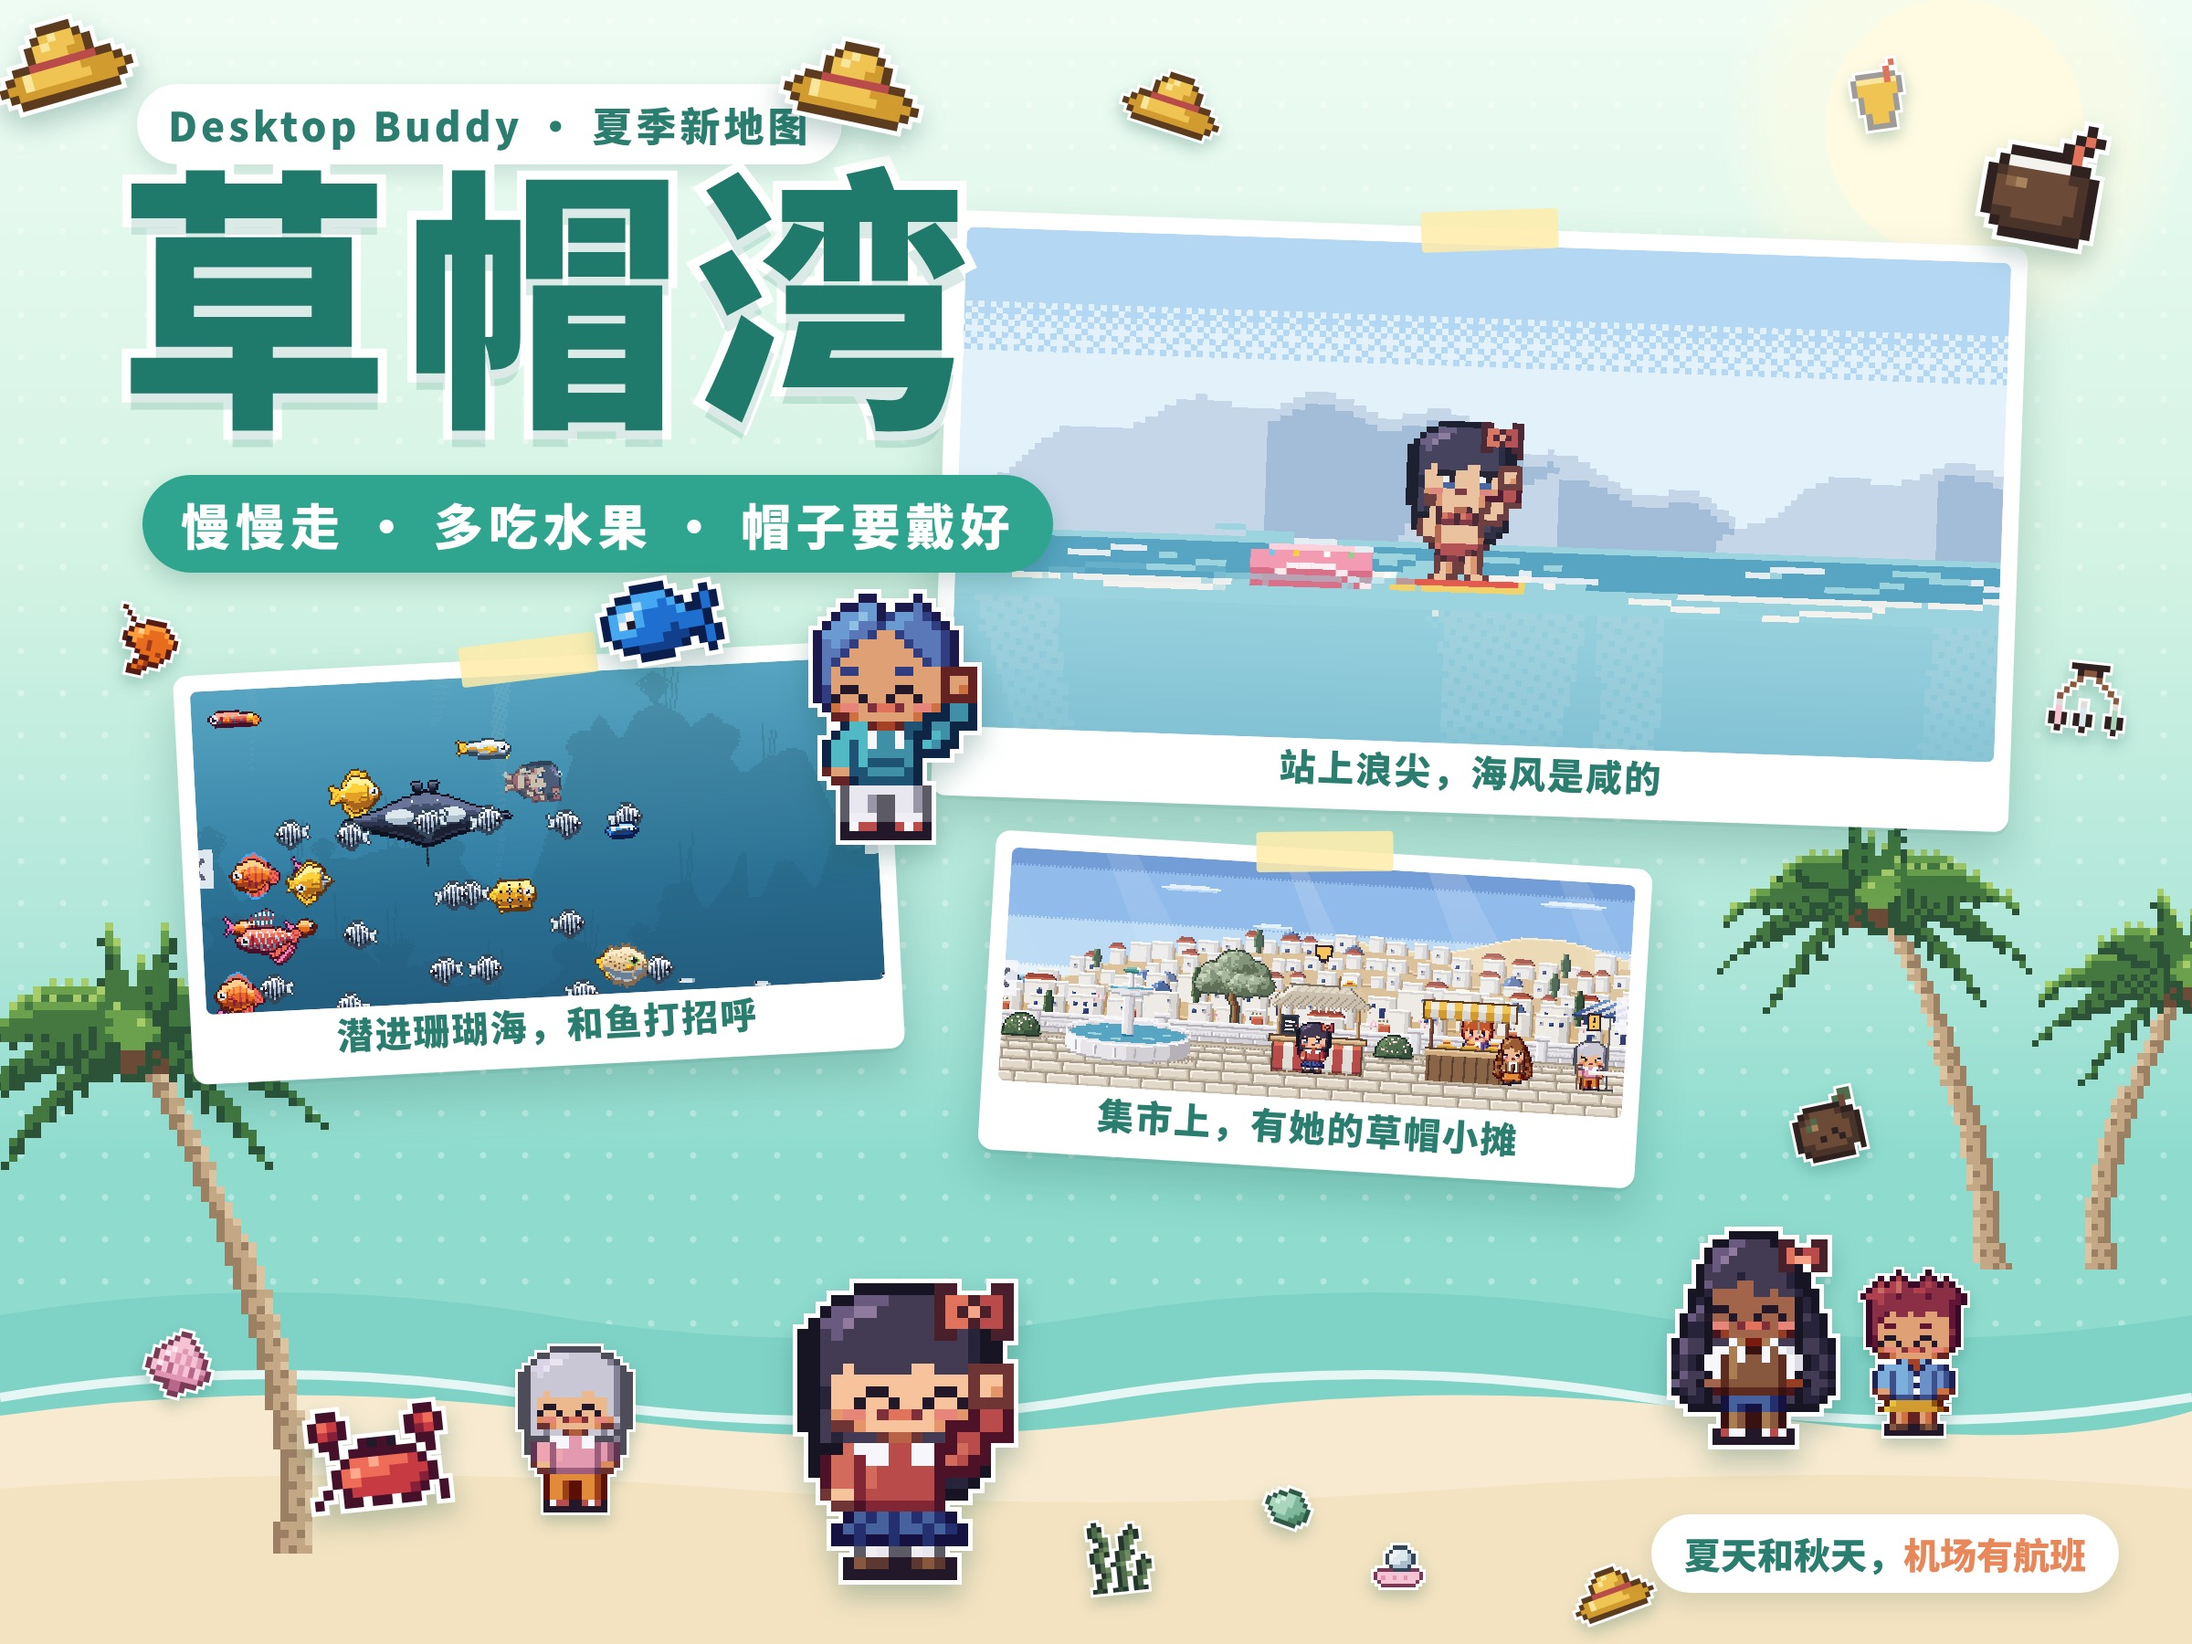
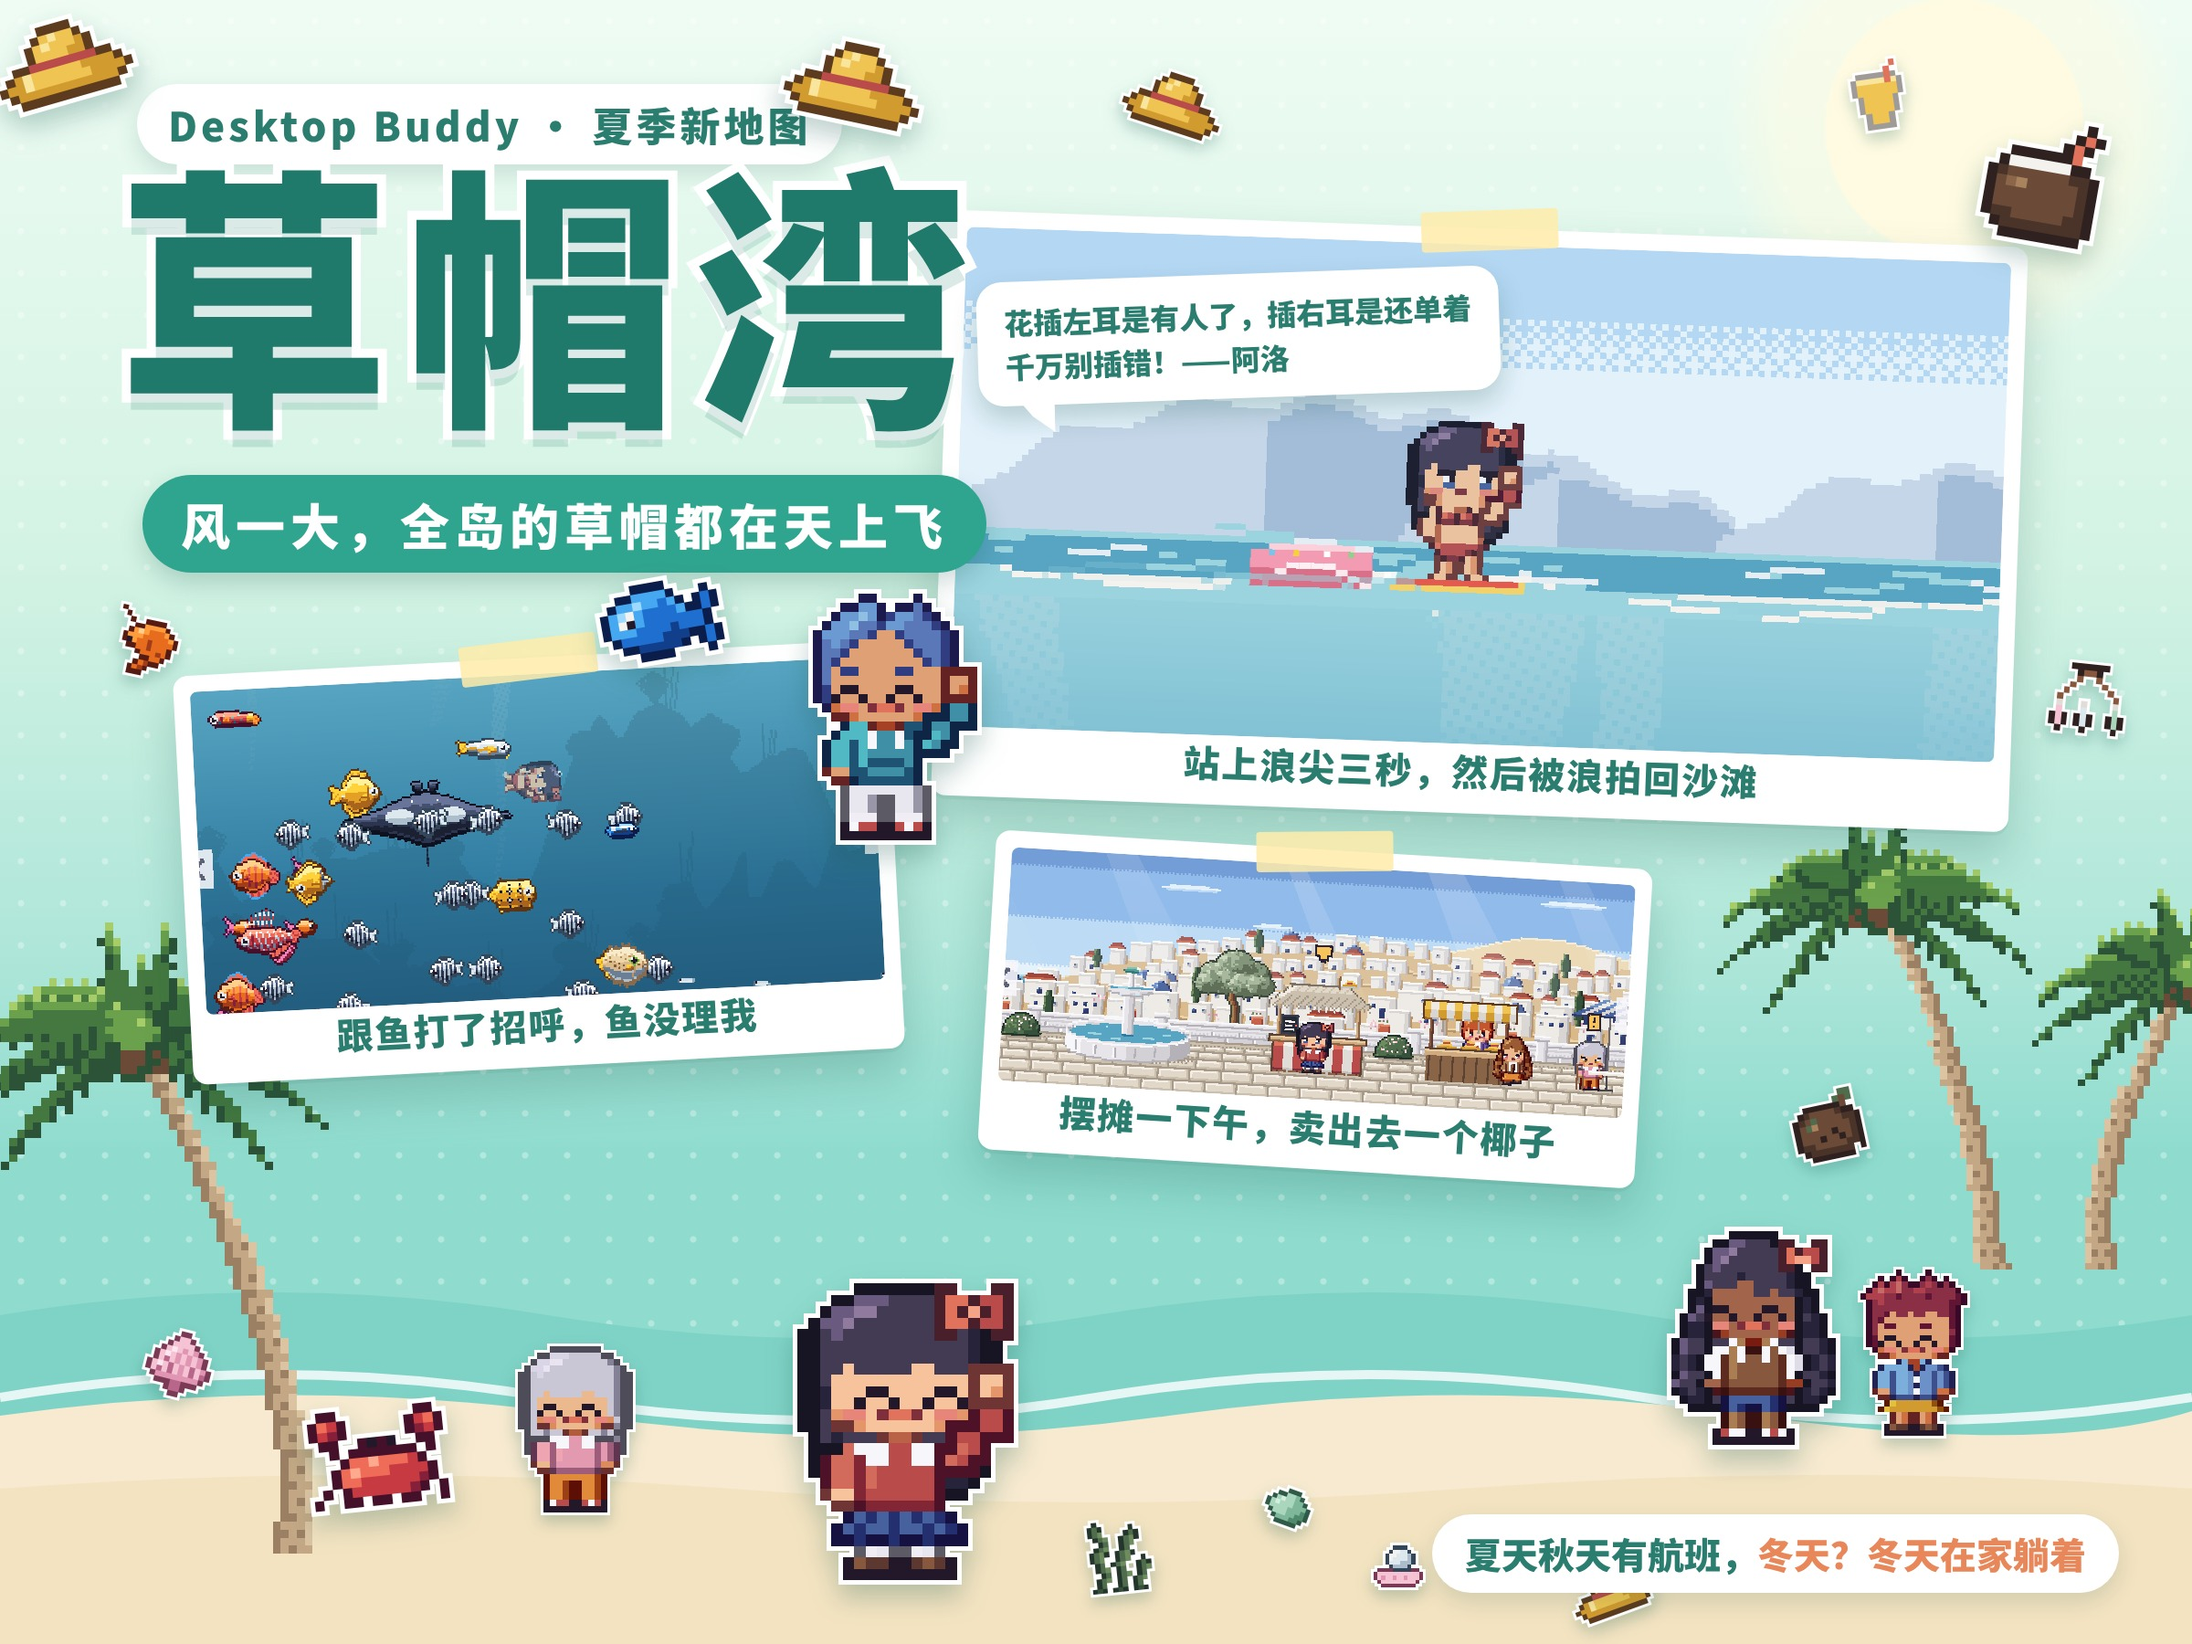
草帽湾：潜水画面不再扩展，镜头跟着往下；海报文案改无厘头
Claude-Session: https://claude.ai/code/session_01HP37xpvuwwsvGpZEAk6w5s

diff --git a/marketing/summer/poster.html b/marketing/summer/poster.html
@@ -18,6 +18,8 @@ body{position:relative;font-family:"Noto Sans CJK SC","Noto Sans CJK TC",sans-se
 .sub{position:absolute;left:156px;top:520px;font-weight:800;font-size:54px;color:#fff;background:#2fa48f;padding:14px 42px;border-radius:999px;letter-spacing:6px;box-shadow:0 12px 26px rgba(20,80,70,.2)}
 .foot{position:absolute;right:80px;bottom:56px;padding:14px 36px;background:#fff;border-radius:999px;font-weight:800;font-size:40px;color:#2a7d6f;box-shadow:0 10px 24px rgba(20,80,70,.15)}
 .foot b{color:#e8875a}
+.bubble{position:absolute;left:1070px;top:300px;padding:20px 30px;background:#fff;border-radius:28px;font-weight:800;font-size:32px;line-height:1.5;color:#2a7d6f;box-shadow:0 14px 28px rgba(20,80,70,.22);transform:rotate(-2deg);z-index:2;white-space:nowrap}
+.bubble:after{content:'';position:absolute;left:40px;bottom:-30px;border:18px solid transparent;border-top:22px solid #fff;border-right:24px solid #fff}
 </style></head><body>
 <div class="dots"></div><div class="sun"></div>
 <div class="beach"><svg viewBox="0 0 2400 420" preserveAspectRatio="none">
@@ -32,16 +34,17 @@ body{position:relative;font-family:"Noto Sans CJK SC","Noto Sans CJK TC",sans-se
 <img class="px" src="palm1.png" style="left:1880px;top:880px;width:690px">
 
 <!-- photos -->
-<div class="photo" style="left:1030px;top:250px;width:1180px;transform:rotate(2deg)"><div class="tape"></div><img src="surf.png"><p>站上浪尖，海风是咸的</p></div>
-<div class="photo" style="left:200px;top:720px;width:780px;transform:rotate(-3deg)"><div class="tape"></div><img src="sea.png"><p>潜进珊瑚海，和鱼打招呼</p></div>
-<div class="photo" style="left:1080px;top:930px;width:720px;transform:rotate(3.5deg)"><div class="tape"></div><img src="market.png"><p>集市上，有她的草帽小摊</p></div>
+<div class="photo" style="left:1030px;top:250px;width:1180px;transform:rotate(2deg)"><div class="tape"></div><img src="surf.png"><p>站上浪尖三秒，然后被浪拍回沙滩</p></div>
+<div class="photo" style="left:200px;top:720px;width:780px;transform:rotate(-3deg)"><div class="tape"></div><img src="sea.png"><p>跟鱼打了招呼，鱼没理我</p></div>
+<div class="photo" style="left:1080px;top:930px;width:720px;transform:rotate(3.5deg)"><div class="tape"></div><img src="market.png"><p>摆摊一下午，卖出去一个椰子</p></div>
 
 <div class="label">Desktop Buddy · 夏季新地图</div>
 <div class="title">草帽湾</div>
-<div class="sub">慢慢走 · 多吃水果 · 帽子要戴好</div>
+<div class="sub">风一大，全岛的草帽都在天上飞</div>
 
 <!-- island people -->
 <img class="st" src="s_alo.png" style="left:870px;top:640px;width:200px">
+<div class="bubble">花插左耳是有人了，插右耳是还单着<br>千万别插错！——阿洛</div>
 <img class="st" src="s_hero.png" style="left:860px;top:1380px;width:250px">
 <img class="st" src="s_lei.png" style="left:1830px;top:1330px;width:180px">
 <img class="st sm" src="s_kai.png" style="left:2030px;top:1390px;width:130px">
@@ -63,5 +66,5 @@ body{position:relative;font-family:"Noto Sans CJK SC","Noto Sans CJK TC",sans-se
 <img class="st sm" src="shell_chime.png" style="left:2230px;top:720px;width:110px;transform:rotate(6deg)">
 <img class="st sm" src="seaweed.png" style="left:1170px;top:1660px;width:90px;transform:rotate(-6deg)">
 
-<div class="foot">夏天和秋天，<b>机场有航班</b></div>
+<div class="foot">夏天秋天有航班，<b>冬天？冬天在家躺着</b></div>
 </body></html>

diff --git a/prototype/map-test/adapter.js b/prototype/map-test/adapter.js
@@ -45,7 +45,7 @@ const seasonalTest=(function(){
  ACTS.season_explore={label:'在季节地图探索',spot:null,dur:Infinity,log:null};OUT_ACTS.add('season_explore');EFFECT.season_explore={fun:.08};
  const oldHeight=sceneHouseHeight;sceneHouseHeight=()=>active()?(state.activeHeight||ctl()?.canvas.height||H):oldHeight();
  // web page: keep the room the sea view grows into free above the house, so diving opens upward (the app moves its window)
- function sceneRoom(h){if(TAURI)return;const d=document.querySelector('.desk');if(!active()||sim.place!=='summer_test'||!h){d.style.removeProperty('--scene-room');return;}d.style.setProperty('--scene-room',(Math.max(0,236-h)*(view.getBoundingClientRect().height/h)).toFixed(1)+'px');}
+ function sceneRoom(h){if(TAURI)return;const d=document.querySelector('.desk');if(true){d.style.removeProperty('--scene-room');return;}   /* the sea view no longer grows (owner 2026-11-06) */d.style.setProperty('--scene-room',(Math.max(0,236-h)*(view.getBoundingClientRect().height/h)).toFixed(1)+'px');}
  function sync(){
   const c=ctl();if(!c)return;const s=c.state;sim.route=[[s.x,s.y]];sim.s=sim.target=0;sim.crossing=[];sim.facing=s.facing;
   if(sim.mode!=='down'&&!sim.windup){sim.mode='act';sim.act='season_explore';sim.actEnd=Infinity;}

diff --git a/prototype/summer/viewer.js b/prototype/summer/viewer.js
@@ -75,7 +75,7 @@ function move(dt){state.walk=false;if(state.paused||!state.loaded)return;if(stat
 function follow(value,velocity,target,omega,dt){const delta=value-target,e=Math.exp(-omega*dt),temp=(velocity+omega*delta)*dt;return [target+(delta+temp)*e,(velocity-omega*temp)*e];}
 function camera(dt){
  if(state.market){if(canvas.height!==LAND_H){canvas.height=LAND_H;ctx.imageSmoothingEnabled=false;}state.viewH=LAND_H;const lead=state.walk?state.facing*14:0;[state.camX,state.camVX]=follow(state.camX,state.camVX,clamp(state.x-VW/2+lead,0,(market?.w||684)-VW),7,dt);state.camX=clamp(state.camX,0,(market?.w||684)-VW);state.camY=0;state.diveBlend=0;return;}
- const sea=!state.inside&&((inSea()&&gr(state.x)>WL+8)||under()),wantH=sea?SEA_H:LAND_H;
+ const sea=!state.inside&&((inSea()&&gr(state.x)>WL+8)||under()),wantH=LAND_H;   // owner 2026-11-06: the view keeps its size under water too (a taller one ran off small screens); the camera follows her down
  // Resize once per mode switch, not once per animated height pixel.
  if(canvas.height!==wantH){canvas.height=wantH;ctx.imageSmoothingEnabled=false;}
  state.viewH+=(wantH-state.viewH)*(1-Math.exp(-6*dt));

diff --git a/docs/AGENT_LOG.md b/docs/AGENT_LOG.md
@@ -6,6 +6,11 @@ owner decisions made, what was not tested. Keep older entries; trim beyond ~40 e
 
 ---
 
+## 2026-11-06 Claude — 草帽湾潜水画面不再扩展；海报文案无厘头
+- 主人：画面不扩展了（百分百大小容易超出界面）。viewer.js wantH 固定 LAND_H，水下镜头跟着她往下走；adapter.js 网页版不再预留 --scene-room。实测潜到 y=212 视图尺寸不变。
+- 海报文案：风一大，全岛的草帽都在天上飞 / 站上浪尖三秒，然后被浪拍回沙滩 / 跟鱼打了招呼，鱼没理我 / 摆摊一下午，卖出去一个椰子 /
+  夏天秋天有航班，冬天？冬天在家躺着；阿洛气泡“花插左耳是有人了，插右耳是还单着，千万别插错！”。
+
 ## 2026-11-06 Claude — 季节地图夜晚按房间开灯；茵菲谷补夜色晚霞；潜水展开 0.5 s；海报绿色悠闲版
 - 新增 prototype/map-test/season_night.js：茵菲谷原来完全没有夜晚（23 点还是白天）。屋外照主世界 duskState 晚霞 + outdoorNightness 夜色；
   农舍 / 旅社室内照主世界：夜里只有她所在的房间亮灯（渐亮渐灭），其它房间按主屋夜色变暗，上床睡觉关灯。summer_more nightPass 不再管室内。
